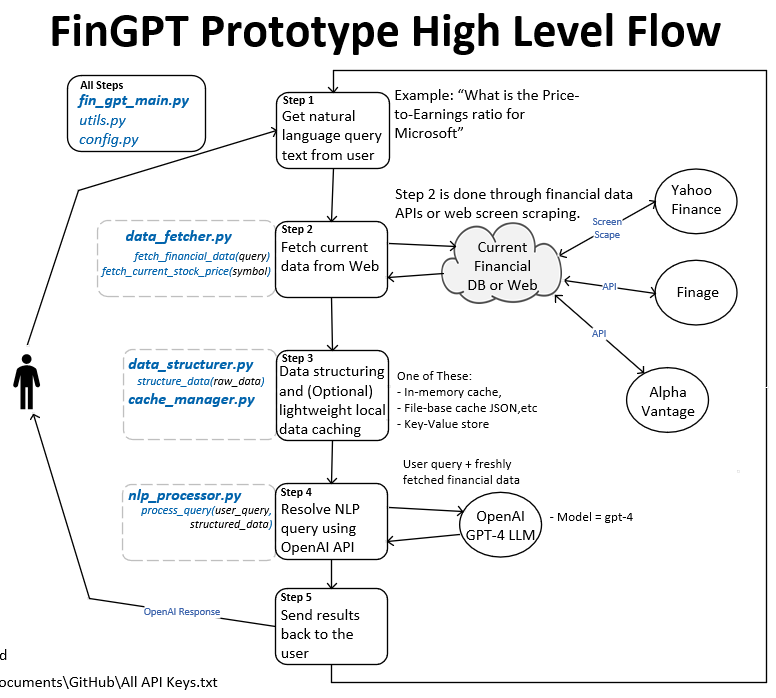
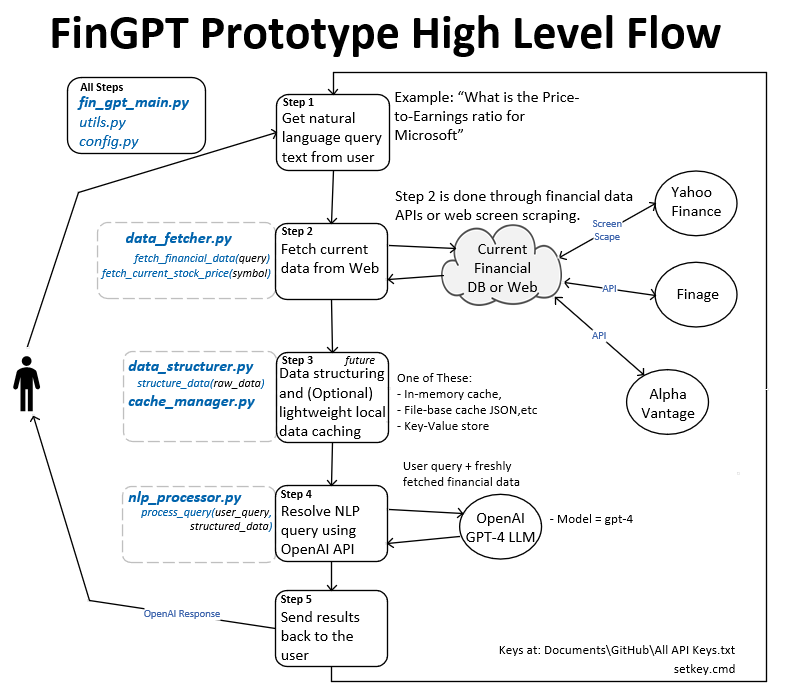
Updated the flow diagram

diff --git a/GPT_Fin/FinGPT-Plan.html b/GPT_Fin/FinGPT-Plan.html
@@ -13,7 +13,7 @@
 
 <h1>FinGPT Prototype</h1>
 
-<p>The prototype accept a query and returns finacial information about an 
+<p>The prototype accept a query and returns financial information about an 
 equity. Here's an overview of 5 processing steps:
 
 </p>
